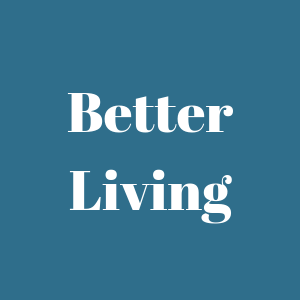
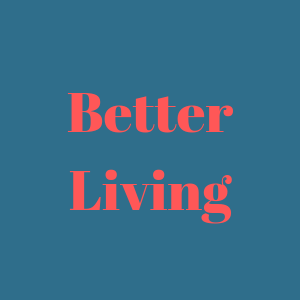
change text color to FF5757

Changed region(s): [[0.24, 0.54, 0.78, 0.75], [0.21, 0.3, 0.78, 0.45]]

diff --git a/src/components/Work.css b/src/components/Work.css
@@ -24,7 +24,7 @@
     width: 800px;
 }
 .summary{
-    color:rgba(162, 22, 22, 0.886);
+    color:#FF5757;
     font-size: 28px;
     font-family: 'Red Hat Display', monospace;
     text-shadow: 5px 5px 5px rgba(0, 0, 0, 0.5);

diff --git a/src/components/About.css b/src/components/About.css
@@ -19,7 +19,7 @@ img {
 }
 
 .brand-statement{
-    color:rgba(162, 22, 22, 0.886);
+    color:#FF5757;
     font-size: 24px;
     font-family: 'Gayathri', monospace;
     text-shadow: 5px 5px 5px rgba(0, 0, 0, 0.5);
